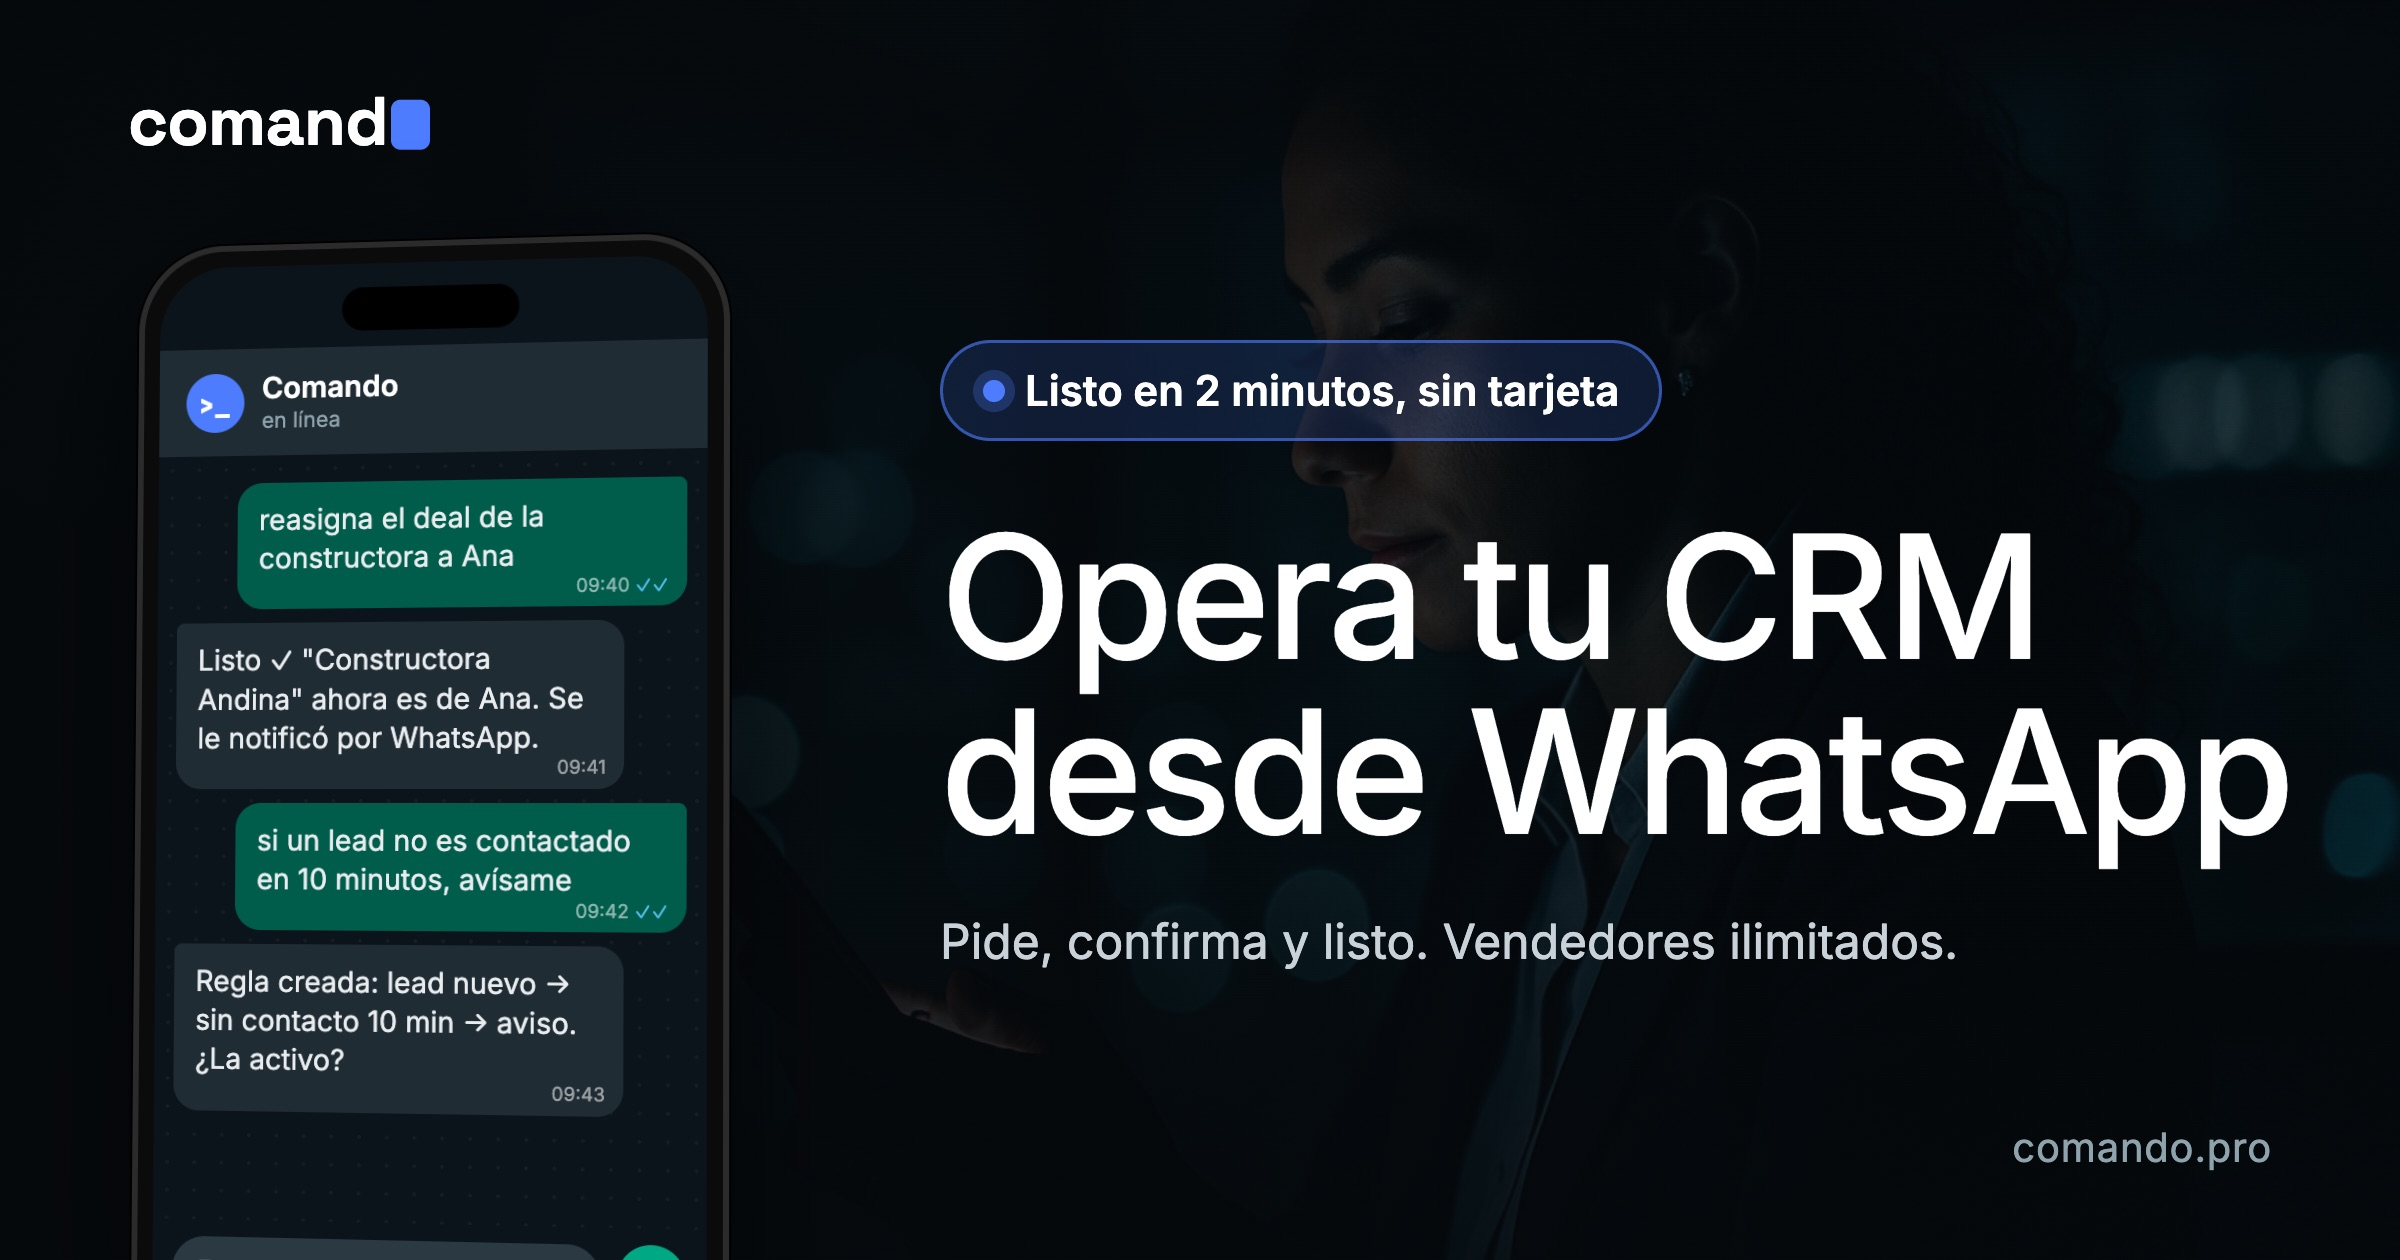
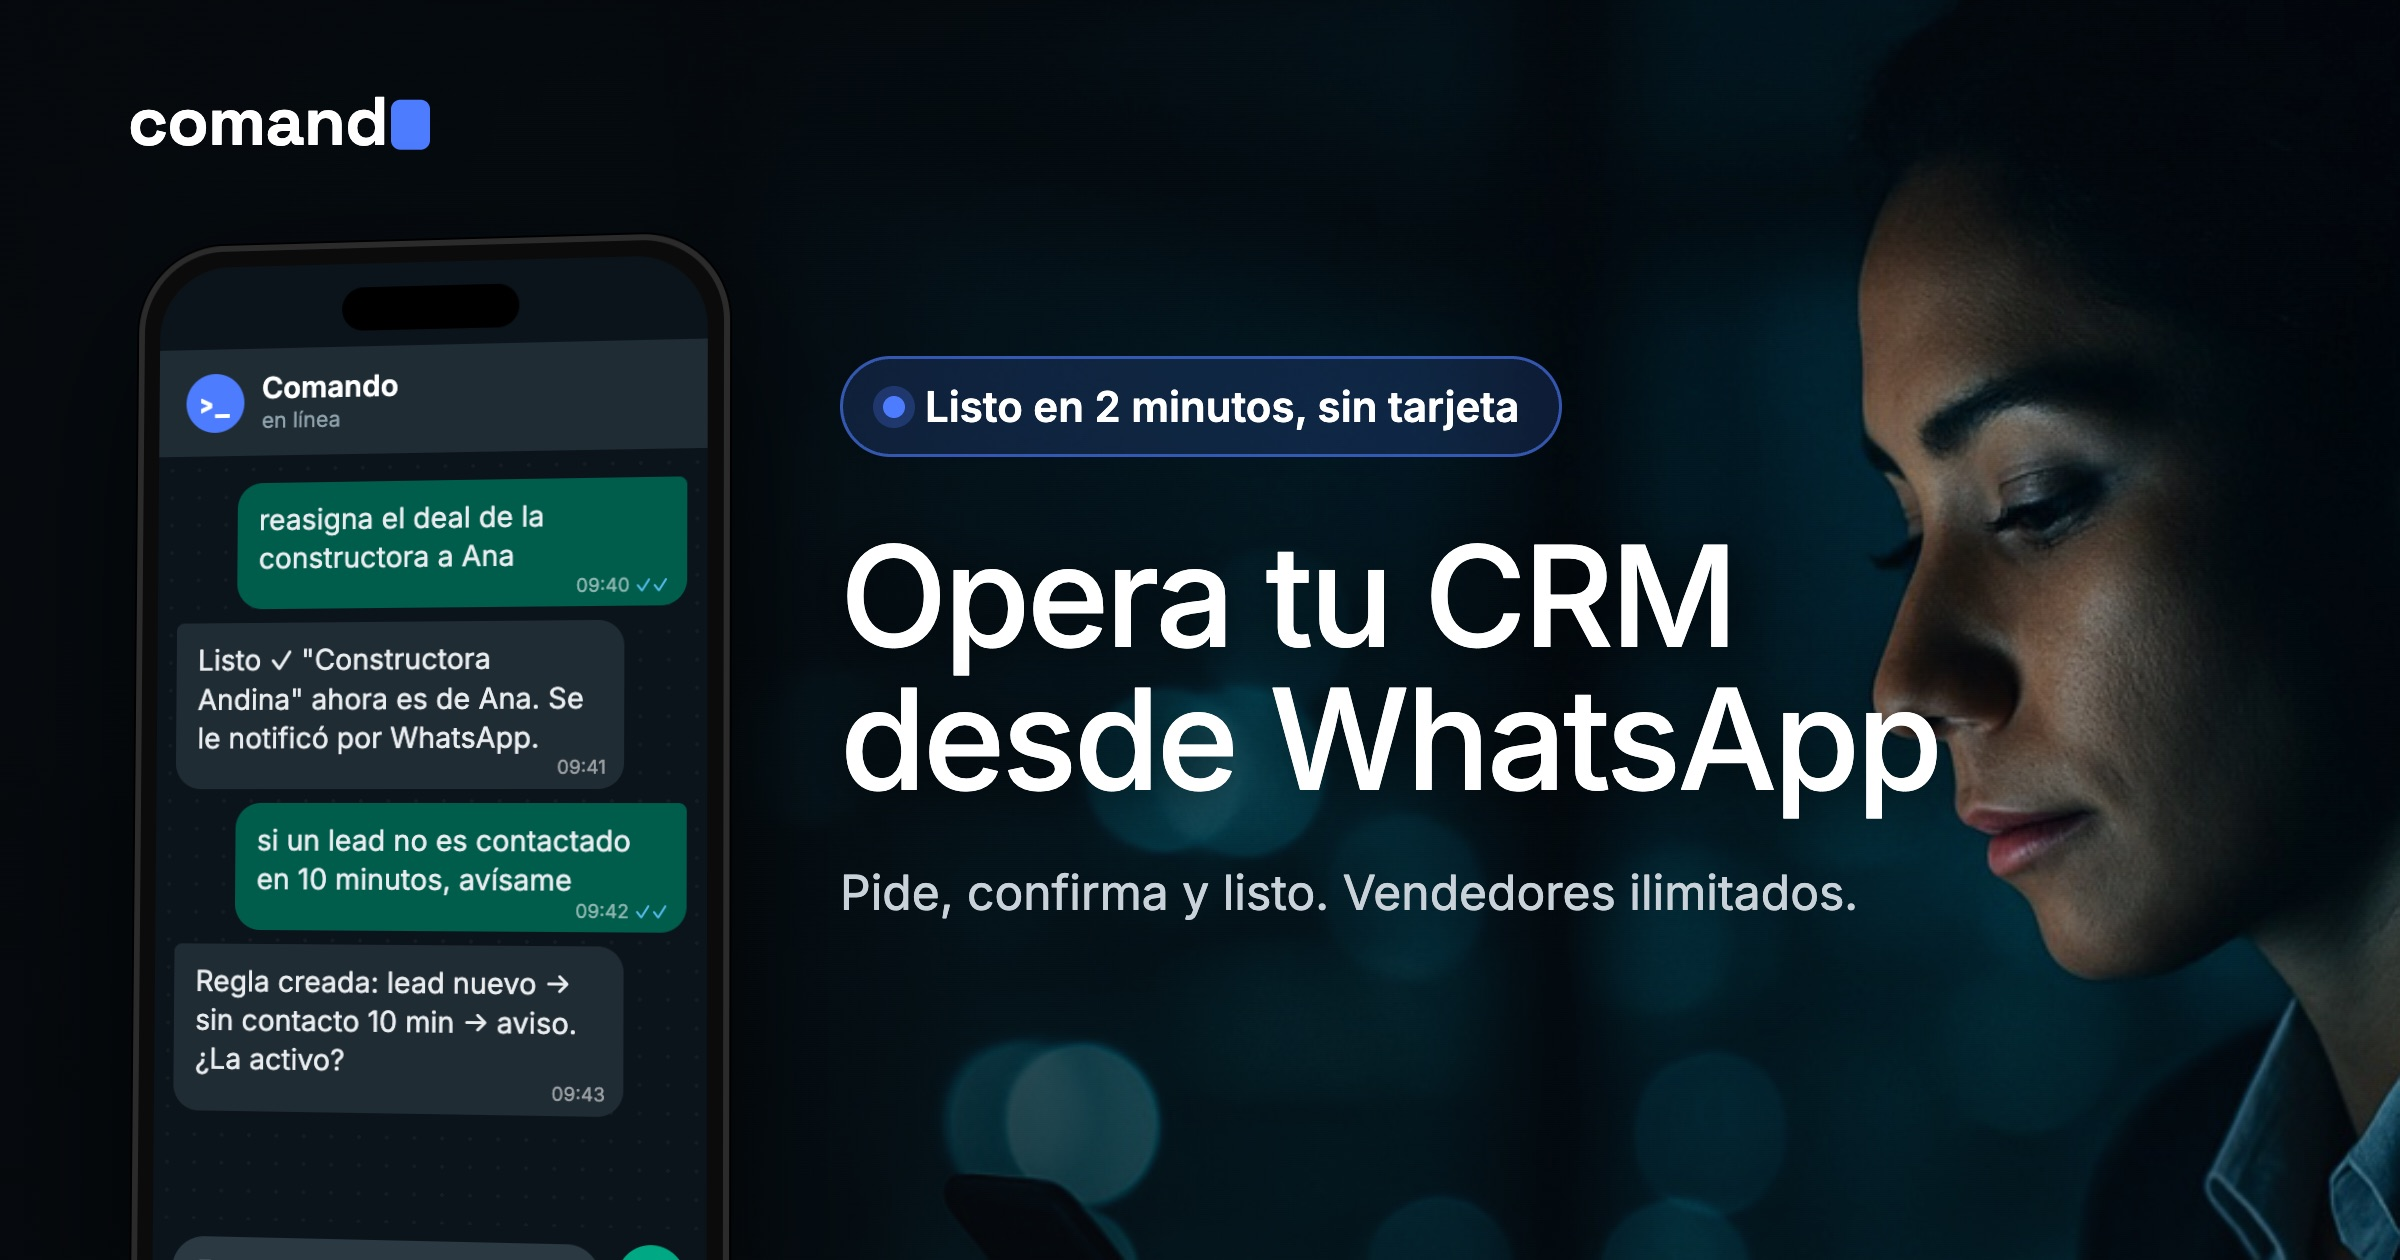
OG: foto más visible con el rostro libre de texto, sin URL en la imagen; og:title distinto al titular
Claude-Session: https://claude.ai/code/session_01KFALyyL9nm2SU1gdJQddv7

diff --git a/tooling/og-image.html b/tooling/og-image.html
@@ -3,9 +3,9 @@
 @font-face{font-family:"Space Grotesk";src:url(file:///Users/sergiomini/Documents/comando/comando-web/assets/fonts/SpaceGrotesk-Variable.woff2) format("woff2");font-weight:300 700}
 *{box-sizing:border-box;margin:0}
 body{width:1200px;height:630px;overflow:hidden;background:#06090c;font-family:Inter,system-ui,sans-serif;color:#fff;position:relative}
-.bg{position:absolute;inset:0;background:url(og-bg.jpg) center right/cover no-repeat}
-.shade{position:absolute;inset:0;background:linear-gradient(90deg,rgba(6,9,12,.92) 0%,rgba(6,9,12,.8) 45%,rgba(6,9,12,.45) 100%)}
-.shade2{position:absolute;inset:0;background:linear-gradient(180deg,rgba(6,9,12,.35),rgba(6,9,12,0) 30%,rgba(6,9,12,.55))}
+.bg{position:absolute;inset:0;background:url(og-bg.jpg) 0% 20%/145% auto no-repeat;filter:brightness(1.3) saturate(1.1)}
+.shade{position:absolute;inset:0;background:linear-gradient(90deg,rgba(6,9,12,.9) 0%,rgba(6,9,12,.62) 40%,rgba(6,9,12,.22) 70%,rgba(6,9,12,.05) 100%)}
+.shade2{position:absolute;inset:0;background:linear-gradient(180deg,rgba(6,9,12,.25),rgba(6,9,12,0) 30%,rgba(6,9,12,.35))}
 .brand{position:absolute;left:64px;top:44px;display:inline-flex;align-items:center;gap:.05em;font-family:"Space Grotesk",Inter,sans-serif;font-weight:700;font-size:34px;letter-spacing:-.01em;line-height:1}
 .brand i{display:inline-block;width:.56em;height:.74em;border-radius:.14em;background:#4d7cff;transform:translateY(.04em)}
 .phone{position:absolute;left:64px;top:118px;width:300px;height:560px;background:#0b0b0b;border:3px solid #2b2b2b;border-radius:44px;padding:8px;box-shadow:0 30px 80px -20px rgba(0,0,0,.9),0 0 0 1px #000;transform:perspective(1400px) rotateY(-8deg) rotateX(2deg);transform-origin:center}
@@ -19,10 +19,10 @@ body{width:1200px;height:630px;overflow:hidden;background:#06090c;font-family:In
 .u .b{background:#005c4b;color:#e9edef;border-top-right-radius:4px}.o .b{background:#202c33;color:#e9edef;border-top-left-radius:4px}
 .t{position:absolute;right:9px;bottom:4px;font-size:9.5px;color:rgba(255,255,255,.55)}.t i{font-style:normal;color:#53bdeb}
 .in{display:flex;gap:8px;align-items:center;padding:8px 10px 14px}.in span{flex:1;background:#2a3942;border-radius:999px;padding:9px 13px;font-size:13px;color:#8fa3ad}.in b{width:34px;height:34px;border-radius:50%;background:#00a884;display:grid;place-items:center;font-size:14px}
-.copy{position:absolute;left:470px;top:170px;width:700px}
+.copy{position:absolute;left:420px;top:178px;width:600px}
 .badge{display:inline-flex;align-items:center;gap:10px;background:rgba(77,124,255,.16);border:1.5px solid rgba(77,124,255,.6);border-radius:999px;padding:11px 20px;font-weight:600;font-size:21px;color:#fff}
 .badge i{width:11px;height:11px;border-radius:50%;background:#4d7cff;box-shadow:0 0 0 5px rgba(77,124,255,.25)}
-h1{font-weight:500;font-size:86px;line-height:1.02;letter-spacing:-.025em;margin-top:34px}
+h1{font-weight:500;font-size:70px;text-shadow:0 2px 24px rgba(0,0,0,.6);line-height:1.02;letter-spacing:-.025em;margin-top:34px}
 .sub{margin-top:26px;font-size:24px;color:#c9d1d9;font-weight:400}
 .url{position:absolute;right:64px;bottom:44px;font-size:20px;color:#8fa3ad;letter-spacing:.02em}
 </style></head><body>
@@ -38,5 +38,4 @@ h1{font-weight:500;font-size:86px;line-height:1.02;letter-spacing:-.025em;margin
 </div>
 <div class="in"><span>Escribe un comando…</span><b>🎤</b></div></div></div>
 <div class="copy"><div class="badge"><i></i>Listo en 2 minutos, sin tarjeta</div><h1>Opera tu CRM<br>desde WhatsApp</h1><div class="sub">Pide, confirma y listo. Vendedores ilimitados.</div></div>
-<div class="url">comando.pro</div>
 </body></html>

diff --git a/index.html b/index.html
@@ -10,18 +10,18 @@
 <meta property="og:site_name" content="Comando"/>
 <meta property="og:locale" content="es_LA"/>
 <meta property="og:url" content="https://comando.pro/"/>
-<meta property="og:title" content="Opera tu CRM desde WhatsApp — Comando"/>
+<meta property="og:title" content="Comando · Pide, confirma y listo"/>
 <meta property="og:description" content="Pide, confirma y listo: Comando ejecuta tu CRM (HubSpot, Pipedrive, Zoho, Salesforce, Kommo, Shopify…) desde WhatsApp en lenguaje natural. Listo en 2 minutos, sin tarjeta, vendedores ilimitados."/>
-<meta property="og:image" content="https://comando.pro/assets/img/og-image.jpg?v=2"/>
-<meta property="og:image:secure_url" content="https://comando.pro/assets/img/og-image.jpg?v=2"/>
+<meta property="og:image" content="https://comando.pro/assets/img/og-image.jpg?v=3"/>
+<meta property="og:image:secure_url" content="https://comando.pro/assets/img/og-image.jpg?v=3"/>
 <meta property="og:image:type" content="image/jpeg"/>
 <meta property="og:image:width" content="2400"/>
 <meta property="og:image:height" content="1260"/>
 <meta property="og:image:alt" content="Comando: Opera tu CRM desde WhatsApp"/>
 <meta name="twitter:card" content="summary_large_image"/>
-<meta name="twitter:title" content="Opera tu CRM desde WhatsApp — Comando"/>
+<meta name="twitter:title" content="Comando · Pide, confirma y listo"/>
 <meta name="twitter:description" content="Pide, confirma y listo: Comando ejecuta tu CRM (HubSpot, Pipedrive, Zoho, Salesforce, Kommo, Shopify…) desde WhatsApp en lenguaje natural. Listo en 2 minutos, sin tarjeta, vendedores ilimitados."/>
-<meta name="twitter:image" content="https://comando.pro/assets/img/og-image.jpg?v=2"/>
+<meta name="twitter:image" content="https://comando.pro/assets/img/og-image.jpg?v=3"/>
 <meta name="theme-color" content="#0a0a0a"/>
 <link href="assets/img/favicon.png" rel="shortcut icon" type="image/x-icon"/>
 <link href="assets/img/webclip.png" rel="apple-touch-icon"/>

diff --git a/empezar/index.html b/empezar/index.html
@@ -13,8 +13,8 @@
 <meta property="og:url" content="https://comando.pro/empezar/"/>
 <meta property="og:title" content="Elige tu CRM — Comando"/>
 <meta property="og:description" content="Acceso anticipado: elige tu CRM o tienda y te avisamos cuando puedas operarla desde WhatsApp con Comando."/>
-<meta property="og:image" content="https://comando.pro/assets/img/og-image.jpg?v=2"/>
-<meta property="og:image:secure_url" content="https://comando.pro/assets/img/og-image.jpg?v=2"/>
+<meta property="og:image" content="https://comando.pro/assets/img/og-image.jpg?v=3"/>
+<meta property="og:image:secure_url" content="https://comando.pro/assets/img/og-image.jpg?v=3"/>
 <meta property="og:image:type" content="image/jpeg"/>
 <meta property="og:image:width" content="2400"/>
 <meta property="og:image:height" content="1260"/>
@@ -22,7 +22,7 @@
 <meta name="twitter:card" content="summary_large_image"/>
 <meta name="twitter:title" content="Elige tu CRM — Comando"/>
 <meta name="twitter:description" content="Acceso anticipado: elige tu CRM o tienda y te avisamos cuando puedas operarla desde WhatsApp con Comando."/>
-<meta name="twitter:image" content="https://comando.pro/assets/img/og-image.jpg?v=2"/>
+<meta name="twitter:image" content="https://comando.pro/assets/img/og-image.jpg?v=3"/>
 <meta name="theme-color" content="#0a0a0a"/>
 <link rel="icon" href="/assets/img/favicon.png"/><link rel="apple-touch-icon" href="/assets/img/webclip.png"/>
 <style>
